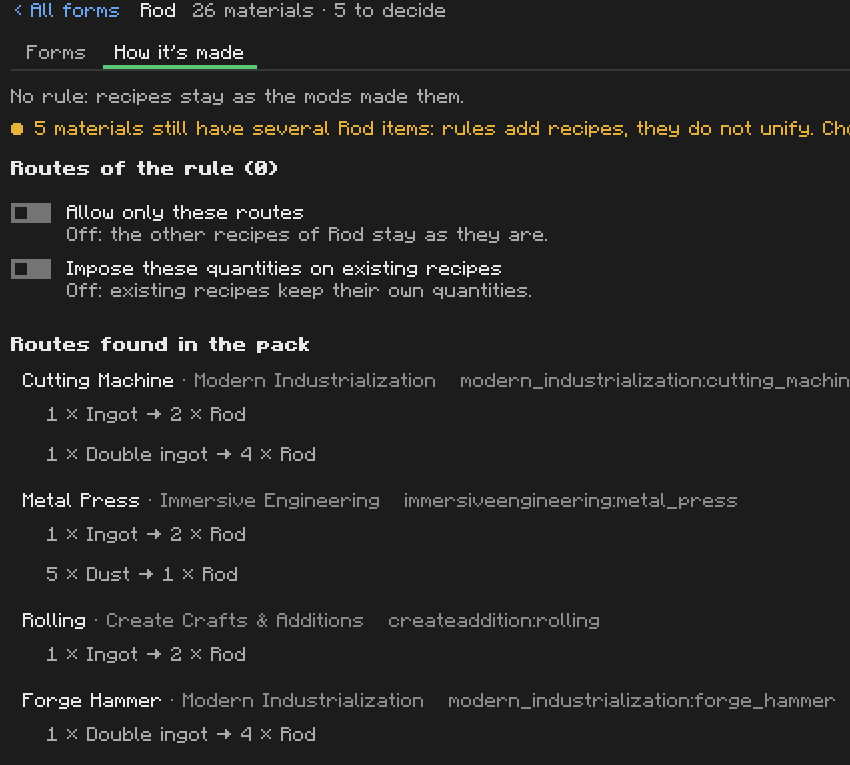
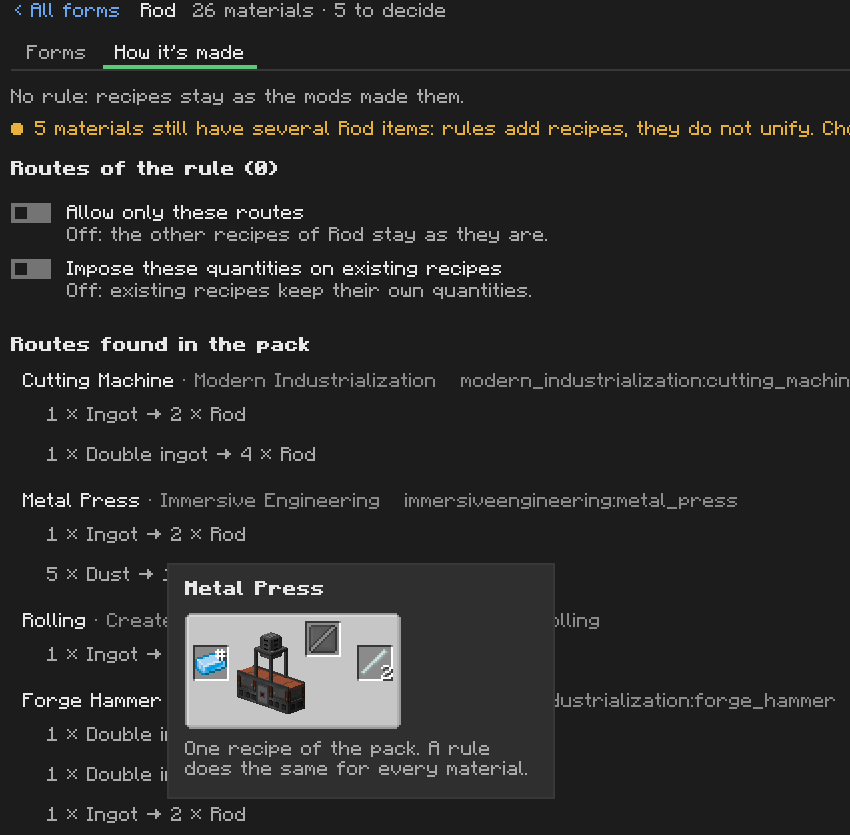
MNX-105: Scripts table names the mod of each item with its Keep button always drawn, recipe type ids of How it's made follow the id setting, route recipe shown in the store image; backlog, roadmap and support backlog brought up to date

diff --git a/src/main/java/dev/drimoz/materialnexus/client/ScriptsPanel.java b/src/main/java/dev/drimoz/materialnexus/client/ScriptsPanel.java
@@ -94,7 +94,7 @@ final class ScriptsPanel {
 
         // Beside the table when there is room, under it otherwise.
         boolean wide = w >= 760;
-        int iw = wide ? 320 : w;
+        int iw = wide ? 300 : w;
         int ih = wide ? y + h - ty : Math.min(120, (y + h - ty) / 2);
         int tw = wide ? w - iw - 12 : w;
         int bottom = wide ? y + h : y + h - ih - 8;
@@ -103,8 +103,8 @@ final class ScriptsPanel {
         }
 
         int c2 = x + Math.clamp(tw / 4, 110, 170);
-        int c3 = c2 + (tw - (c2 - x) - 150) / 2;
-        int c4 = x + tw - 150;
+        int c3 = c2 + (tw - (c2 - x) - 100) / 2;
+        int c4 = x + tw - 100;
         g.drawString(font, tr("col.form"), x + 16, ty + 4, Theme.MUTED, false);
         g.drawString(font, tr("col.scripts"), c2, ty + 4, Theme.MUTED, false);
         g.drawString(font, font.plainSubstrByWidth(tr("col.ours").getString(), c4 - c3 - 4), c3, ty + 4, Theme.MUTED, false);
@@ -144,27 +144,30 @@ final class ScriptsPanel {
         Component title = Component.translatable("screen.materialnexus.triage.item", Names.material(r.material()), Names.form(r.form()));
         g.drawString(font, font.plainSubstrByWidth(title.getString(), c2 - x - 20), x + 16, ry + 7, Theme.TEXT, false);
         r.kept().ifPresent(item -> {
+            // The form is named in the first column: what tells two items apart here is the mod.
             Ui.slot(g, item, c2, ry + 2, 0, false);
-            g.drawString(font, font.plainSubstrByWidth(Names.withMod(item).getString(), c3 - c2 - 28), c2 + 24, ry + 7, Theme.TEXT, false);
+            g.drawString(font, Ui.fit(font, NexusScreen.modName(item.getNamespace()), c3 - c2 - 28), c2 + 24, ry + 7, Theme.TEXT, false);
         });
         if (r.status() == Status.DIFFERS) {
             if (r.current().isPresent()) {
                 Ui.slot(g, r.current().get(), c3, ry + 2, 0, false);
-                g.drawString(font, font.plainSubstrByWidth(Names.withMod(r.current().get()).getString(), c4 - c3 - 28), c3 + 24, ry + 7, Theme.MUTED, false);
+                g.drawString(font, Ui.fit(font, NexusScreen.modName(r.current().get().getNamespace()), c4 - c3 - 28), c3 + 24, ry + 7, Theme.MUTED, false);
             } else {
                 g.drawString(font, tr("current_none"), c3, ry + 7, Theme.MUTED, false);
             }
         } else if (r.status() == Status.SAME || r.status() == Status.RECORDED) {
             g.drawString(font, tr("same_item"), c3, ry + 7, Theme.FAINT, false);
         }
-        if (!inList) return;
-        hits.add(x, ry, tw - 6, ROW, () -> selected = r, null, List.of());
+        if (inList) hits.add(x, ry, tw - 6, ROW, () -> selected = r, null, List.of());
         if (readOnly || !offered(r)) return;
         if (pending(r)) {
             g.drawString(font, Ui.Status.PENDING.label(), c4, ry + 7, Theme.INFO, false);
         } else {
+            // Always drawn: an action that only appears under the pointer is a hidden one. Clickable only inside the list.
             Component keep = tr("keep");
-            button(g, font, keep, x + tw - 12 - font.width(keep) - 12, ry + 3, mx, my, () -> keep(r));
+            int bx = x + tw - 12 - font.width(keep) - 12;
+            if (inList) button(g, font, keep, bx, ry + 3, mx, my, () -> keep(r));
+            else Ui.button(g, font, keep, bx, ry + 3, font.width(keep) + 12, 16, false, false, true);
         }
     }
 

diff --git a/src/main/java/dev/drimoz/materialnexus/client/ProcessPanel.java b/src/main/java/dev/drimoz/materialnexus/client/ProcessPanel.java
@@ -191,7 +191,9 @@ final class ProcessPanel {
             String name = machine(entry.getKey());
             if (ly + 16 > foundTop && ly < bottom) {
                 g.drawString(font, name, x + 6, ly + 4, Theme.TEXT, false);
-                g.drawString(font, font.plainSubstrByWidth(" · " + NexusScreen.modName(entry.getKey().getNamespace()) + "   " + entry.getKey(), width - 20 - font.width(name)),
+                g.drawString(font, font.plainSubstrByWidth(" · " + NexusScreen.modName(entry.getKey().getNamespace())
+                                // MNX-101: the recipe type id is a technical id, shown with the setting.
+                                + (dev.drimoz.materialnexus.client.ui.ScreenSettings.get().showIds() ? "   " + entry.getKey() : ""), width - 20 - font.width(name)),
                         x + 6 + font.width(name), ly + 4, Theme.FAINT, false);
             }
             ly += 16;

diff --git a/src/main/java/dev/drimoz/materialnexus/client/Ui.java b/src/main/java/dev/drimoz/materialnexus/client/Ui.java
@@ -80,6 +80,11 @@ final class Ui {
         return w;
     }
 
+    /** {@code text} cut to {@code width} with an ellipsis, so a cut name never reads as a whole one. */
+    static String fit(Font font, String text, int width) {
+        return font.width(text) <= width ? text : font.plainSubstrByWidth(text, Math.max(0, width - font.width("…"))) + "…";
+    }
+
     /** A flat button drawn by a panel that handles its own clicks; {@code primary} is the view's main action. */
     static void button(GuiGraphics g, Font font, Component label, int x, int y, int w, int h, boolean primary, boolean over, boolean active) {
         int fill = !active ? Theme.RAISED : primary ? (over ? Theme.mix(Theme.ACCENT, Theme.TEXT, 0.18f) : Theme.ACCENT) : over ? Theme.SEL : Theme.RAISED;

diff --git a/tools/Banners.java b/tools/Banners.java
@@ -63,7 +63,7 @@ public class Banners {
         screen(shots, out, "screen_recipes", "mnx_18_recipe_hover", 570, 270, 1915, 1000);
         screen(shots, out, "screen_matrix", "mnx_3_matrix", 215, 48, 925, 760);
         screen(shots, out, "screen_triage", "mnx_7_triage", 225, 60, 1340, 420);
-        screen(shots, out, "screen_process", "mnx_17_route_hover", 215, 55, 1065, 820);
+        screen(shots, out, "screen_process", "mnx_17_route_hover", 215, 55, 1065, 890);
         screen(shots, out, "screen_preview", "mnx_6_preview", 1065, 48, 1915, 420);
         screen(shots, out, "screen_presets", "mnx_9_presets", 675, 55, 1915, 540);
         screen(shots, out, "screen_pending", "mnx_10_pending", 1065, 48, 1915, 360);

diff --git a/src/main/java/dev/drimoz/materialnexus/client/UiShots.java b/src/main/java/dev/drimoz/materialnexus/client/UiShots.java
@@ -33,7 +33,7 @@ public final class UiShots {
             new Step(562, "form", "rod", ""),
             new Step(700, "process", "", ""),
             new Step(800, "", "", "mnx_5_process"),
-            new Step(801, "mouse", "180,278", ""),
+            new Step(801, "mouse", "180,296", ""),
             new Step(803, "", "", "mnx_17_route_hover"),
             new Step(804, "mouse", "", ""),
             new Step(805, "forms_tab", "", ""),

diff --git a/docs/21-SUPPORT-BACKLOG.md b/docs/21-SUPPORT-BACKLOG.md
@@ -2,10 +2,26 @@
 
 Feedback received after the 0.2.0 release, analysed on 2026-10-10. Each entry keeps the raw message, what
 the code already does, the cause or gap, and the proposed work, so nothing has to be analysed twice.
-Ticket ids are proposals: none is started, none is in `14-BACKLOG.md` yet.
+Ticket ids were proposals at the time; what became of each is in **Status** below, and they are now in `14-BACKLOG.md`.
 
 Analysis was done by reading code, docs and the store captures. **Nothing was run in game**: every
 "to confirm" below is a real open point.
+
+## Status (2026-10-13)
+
+All of it is merged in `main` (NeoForge 1.21.1). **Nothing is ported to `forge-1.20.1` yet**, the version the tester
+plays: that port is the next step for this feedback to reach them.
+
+| ID | State |
+|---|---|
+| MNX-086 | Done: the name rule needs membership; "It is the same item" overrules a guess (`same` in `global.json`). |
+| MNX-087 | Done: Start block at the top of the store page, "I want to..." table and FAQ entries in the wiki. To do by hand: paste the description on CurseForge and Modrinth. |
+| MNX-088 | Done, differently: recipes are drawn by JEI or EMI (inspector and next to the pointer, Recipes and How it is made), with the replaced item struck next to the kept one. No renderer of our own. |
+| MNX-089 | Done as the UI redesign (MNX-093 to MNX-104, `22-UI-REDESIGN.md`). Still to ask the tester for the three moments they got stuck. |
+| MNX-090 | Partly: `/materials report` ranks the recipe types no format covers. Thermal and Tinkers have no NeoForge 1.21.1 build on Modrinth: they wait for the 1.20.1 port. |
+| MNX-091 | Done, differently: `config/materialnexus/textures/<material>_<form>.png` (resource packs are not loaded yet when the models are written). |
+| MNX-092 | Done: "Declare tag folder" in Rule files, Untagged forms. |
+| Free groups | Still parked. |
 
 ## Context to keep in mind
 

diff --git a/docs/14-BACKLOG.md b/docs/14-BACKLOG.md
@@ -47,3 +47,11 @@
 | MNX-079 | P1 | Tag edits | `tag_edits` per material/form: Shift + right click takes an item out of its form tag, Data view adds one by id; discovery and resolution follow (ADR-024) |
 | MNX-080 | P2 | Tag diagnostics | `/materials report` "Tags": tags items lack (what Add missing tags writes), recipes asking for an empty material tag, recipes still on `forge:` tags |
 | MNX-081 | P2 | Forms removable as data | `remove_folders` in material_nexus/forms: a folder (built-in or declared) is no longer read |
+| MNX-086 | P0 | Guesses the player can overrule | An item is "named after" a material only when tagged as it; "It is the same item" makes an item left alone on a guess a candidate again |
+| MNX-087 | P0 | Store and wiki entry points | How to open the screen and the links at the top of the store page; wiki home by need |
+| MNX-088 | P1 | Recipes drawn by the viewer | JEI or EMI draws the recipe in the inspector and next to the pointer; no renderer of our own; safe with no viewer |
+| MNX-089 | P1 | Screen legibility | Covered by the UI redesign, MNX-093 to MNX-104 (docs/22) |
+| MNX-090 | P1 | Compat by evidence | `/materials report` ranks unhandled recipe types by recipes naming a material item; Thermal with the 1.20.1 port |
+| MNX-091 | P2 | Texture by file name | `config/materialnexus/textures/<material>_<form>.png` is used for a created item, nothing declared |
+| MNX-092 | P2 | Tag folder as a form | Declared from Rule files, written in the declared patterns file, applied like any change |
+| MNX-093..104 | P1 | UI redesign | Theme roles, shell, tables with inspector, review panel, settings; captures and wiki regenerated (docs/22, docs/07) |

diff --git a/docs/13-ROADMAP.md b/docs/13-ROADMAP.md
@@ -50,13 +50,13 @@ V1 delivers a usable GUI from the start (decision: grilling session 2026-10-05).
 - [x] Create (processing recipe outputs and inputs; sequenced assembly unsupported)
 - [x] Mekanism (item outputs and inputs of machine recipes; chemicals untouched)
 - [x] Immersive Engineering (machine recipes incl. nested secondaries)
-- [ ] Thermal
+- [ ] Thermal (no NeoForge 1.21.1 build: with the 1.20.1 port, MNX-090)
 
 ## Phase 5 — V2 / pack author polish
 
 - [ ] recipe editor
-- [ ] dashboard with counts
-- [ ] Loot and JEI/EMI tabs
+- [x] dashboard with counts (the Overview, MNX-096)
+- [ ] Loot tab (recipes are drawn by JEI/EMI in the Recipes tab, MNX-088)
 - [x] presets (data-driven, 5 shipped, applied through Preview / Apply / Revert)
 - [ ] import/export policy
 - [x] diagnostics report (`/materials report` -> config/materialnexus/report.md)
@@ -64,4 +64,4 @@ V1 delivers a usable GUI from the start (decision: grilling session 2026-10-05).
 - [x] KubeJS optional API (read-only bindings, MNX-067)
 - [x] decisions found in scripts proposed as choices (MNX-076, docs/20)
 - [x] script lines of each decision shown ("seen in", MNX-077)
-- [ ] documentation/wiki
+- [x] documentation/wiki (docs/wiki, published to the GitHub wiki)
